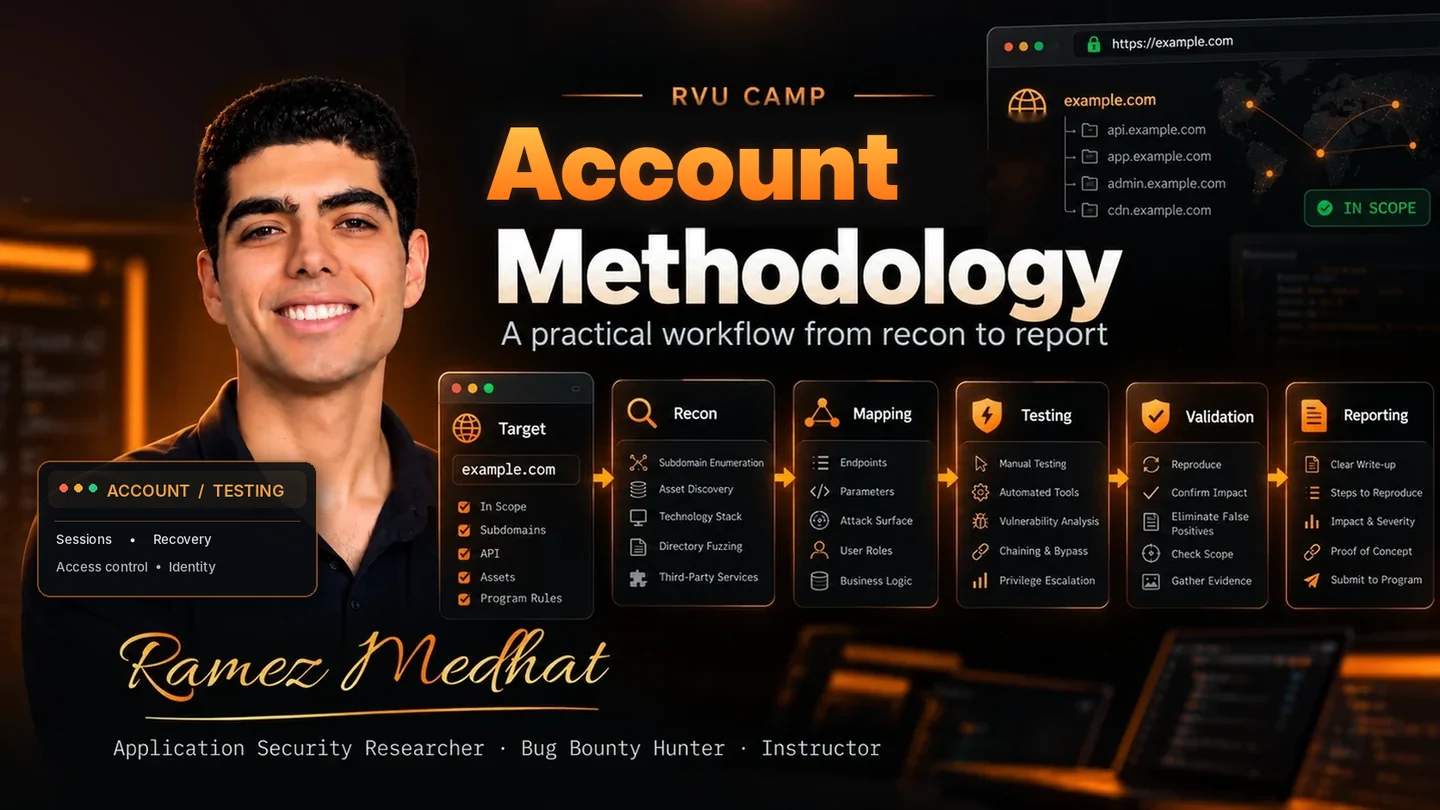
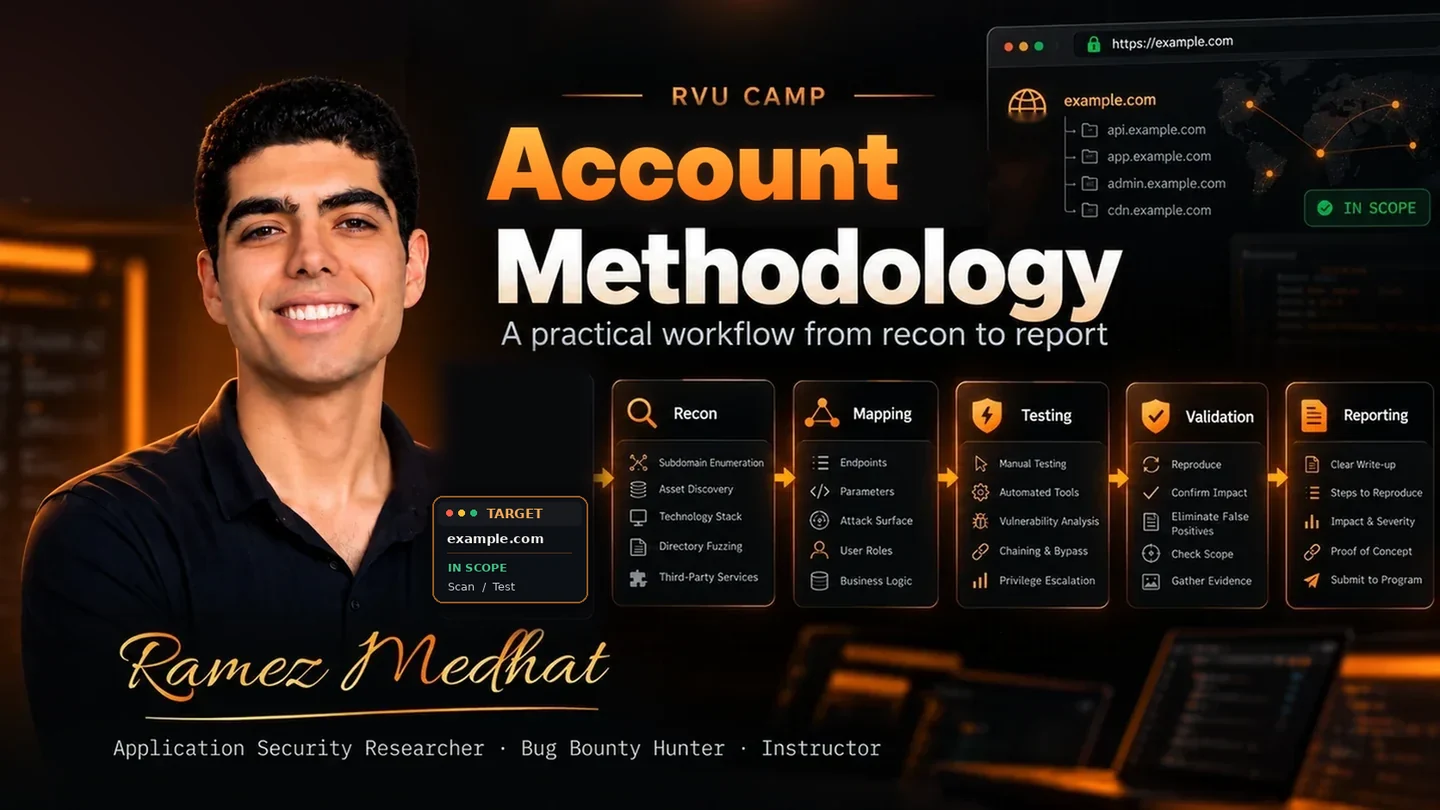
Publish refined Account Testing cover below-shoulder panel

Changed region(s): [[0.2812, 0.4321, 0.4375, 0.8025], [0.0, 0.5556, 0.25, 0.7407]]

diff --git a/index.html b/index.html
@@ -45,7 +45,7 @@
 <section class="section gallery-section" id="experience"><div class="container">
 <div class="section-heading gallery-heading"><div><p class="eyebrow">01 / THE RVU EXPERIENCE</p><h2 data-en="Watch the teaching. Get a feel for the camp.">شوف الشرح وخد إحساس التجربة</h2></div><p data-en="Explore four practical lesson excerpts: APIs, JWTs, e-commerce logic labs and account security testing.">شوف أربع مقتطفات من شرحي في الكامب: الـAPIs والـJWT وتطبيق Business Logic واختبار أمان الحسابات</p></div>
 <div class="gallery-toolbar"><div class="shelf-caption"><span class="gold-dash"></span><span data-en="Four excerpts from my teaching">أربع فيديوهات من شرحي في الكامب</span></div></div>
-<div aria-label="فيديوهات الشرح / Teaching videos" class="gallery-track" id="gallery-track" role="list" tabindex="0"><article class="gallery-card media-card" data-kind="videos" role="listitem"><div class="card-kicker"><span data-en="CAMP EXCERPT">من شرح الكامب</span><span class="mono">01 / VIDEO</span></div><button aria-label="شاهد فيديو How Api Works?" class="video-trigger gallery-poster" data-title="How Api Works?" data-video="xZR5-4iXnI0" type="button" data-label-ar="شاهد How Api Works?" data-label-en="Watch How Api Works?"><img alt="How Api Works? — RVU Camp" draggable="false" height="540" loading="lazy" src="./assets/rvu-video-api.webp?v=20261023-original" width="960" decoding="async"><span aria-hidden="true" class="play-button"><svg viewBox="0 0 24 24" focusable="false"><path d="M9 5.5 19 12 9 18.5Z"></path></svg></span><span class="lesson-tag">APIs / 01</span></button><div class="gallery-card-info"><div><p class="eyebrow" data-en="START WITH UNDERSTANDING">ابدأ بالفهم</p><h3>How API Works?</h3></div><a aria-label="Open How Api Works on YouTube" href="https://www.youtube.com/watch?v=xZR5-4iXnI0" rel="noopener noreferrer" target="_blank">↗</a></div><p data-en="Explore the relationship between the interface, API and data. A sample of my teaching style.">ابدأ بفهم العلاقة بين الواجهة والـAPI والبيانات مقتطف يعرفك على أسلوب شرحي</p></article><article class="gallery-card media-card" data-kind="videos" role="listitem"><div class="card-kicker"><span data-en="CAMP EXCERPT">من شرح الكامب</span><span class="mono">02 / VIDEO</span></div><button aria-label="شاهد فيديو What is JWT?" class="video-trigger gallery-poster" data-title="What is JWT?" data-video="0O1a8Uv2RIs" type="button" data-label-ar="شاهد What is JWT?" data-label-en="Watch What is JWT?"><img alt="What is JWT? — RVU Camp" draggable="false" height="540" loading="lazy" src="./assets/rvu-video-jwt.webp?v=20261023-original" width="960" decoding="async"><span aria-hidden="true" class="play-button"><svg viewBox="0 0 24 24" focusable="false"><path d="M9 5.5 19 12 9 18.5Z"></path></svg></span><span class="lesson-tag">ACCOUNT SECURITY / 02</span></button><div class="gallery-card-info"><div><p class="eyebrow" data-en="CONNECT THE CONCEPTS">اربط المفاهيم ببعض</p><h3>What is JWT?</h3></div><a aria-label="Open What is JWT on YouTube" href="https://www.youtube.com/watch?v=0O1a8Uv2RIs" rel="noopener noreferrer" target="_blank">↗</a></div><p data-en="Connect JWT with account and session context. See the concept explained.">اربط فكرة الـJWT بسياق الحساب والجلسة شوف المفهوم جوه الشرح</p></article><article class="gallery-card media-card" data-kind="videos" role="listitem"><div class="card-kicker"><span data-en="PRACTICAL LAB">تطبيق عملي</span><span class="mono">03 / VIDEO</span></div><button aria-label="شاهد فيديو Find Logic Vulns" class="video-trigger gallery-poster" data-title="Find Logic Vulns" data-video="CZx_WauYbcI" type="button" data-label-ar="شاهد Find Logic Vulns" data-label-en="Watch Find Logic Vulns"><img alt="Find Logic Vulns — Price changes, negative quantities and coupon reuse in RVU Camp" draggable="false" height="540" loading="lazy" src="./assets/rvu-video-account-testing.webp?v=20261023-swapped" width="960" decoding="async"><span aria-hidden="true" class="play-button"><svg viewBox="0 0 24 24" focusable="false"><path d="M9 5.5 19 12 9 18.5Z"></path></svg></span><span class="lesson-tag">BUSINESS LOGIC / 03</span></button><div class="gallery-card-info"><div><p class="eyebrow" data-en="PROBE AND VALIDATE">جرب وتأكد من الأثر</p><h3>Find Logic Vulns</h3></div><a aria-label="Open Find Logic Vulns on YouTube" href="https://www.youtube.com/watch?v=CZx_WauYbcI" rel="noopener noreferrer" target="_blank">↗</a></div><p data-en="Hands-on e-commerce labs: price tampering, negative quantities, coupon reuse and verification of actual impact.">تطبيقات Business Logic في متجر تجريبي: التلاعب بالسعر والكميات السالبة وتكرار الكوبونات وإثبات الأثر الفعلي.</p></article><article class="gallery-card media-card" data-kind="videos" role="listitem"><div class="card-kicker"><span data-en="ACCOUNT SECURITY">أمان الحسابات</span><span class="mono">04 / VIDEO</span></div><button aria-label="شاهد فيديو Account Testing" class="video-trigger gallery-poster" data-title="Account Testing" data-video="FDWt0pSoFTA" type="button" data-label-ar="شاهد Account Testing" data-label-en="Watch Account Testing"><img alt="Account Testing — Sessions, authorization and account recovery methods at RVU Camp" draggable="false" height="540" loading="lazy" src="./assets/rvu-video-account-methodology.webp?v=20261023-account-edit" width="960" decoding="async"><span aria-hidden="true" class="play-button"><svg viewBox="0 0 24 24" focusable="false"><path d="M9 5.5 19 12 9 18.5Z"></path></svg></span><span class="lesson-tag">ACCOUNT TESTING / 04</span></button><div class="gallery-card-info"><div><p class="eyebrow" data-en="MAP THE TRUST BOUNDARIES">اختبر حدود الثقة</p><h3>Account Testing</h3></div><a aria-label="Open Account Testing on YouTube" href="https://www.youtube.com/watch?v=FDWt0pSoFTA" rel="noopener noreferrer" target="_blank">↗</a></div><p data-en="How to think about account security: IDs, session tokens, access control, caching and password reset flows.">إزاي تفكر في اختبار أمان الحسابات: الـID والصلاحيات والجلسات والكاش واسترداد كلمة المرور.</p></article></div>
+<div aria-label="فيديوهات الشرح / Teaching videos" class="gallery-track" id="gallery-track" role="list" tabindex="0"><article class="gallery-card media-card" data-kind="videos" role="listitem"><div class="card-kicker"><span data-en="CAMP EXCERPT">من شرح الكامب</span><span class="mono">01 / VIDEO</span></div><button aria-label="شاهد فيديو How Api Works?" class="video-trigger gallery-poster" data-title="How Api Works?" data-video="xZR5-4iXnI0" type="button" data-label-ar="شاهد How Api Works?" data-label-en="Watch How Api Works?"><img alt="How Api Works? — RVU Camp" draggable="false" height="540" loading="lazy" src="./assets/rvu-video-api.webp?v=20261023-original" width="960" decoding="async"><span aria-hidden="true" class="play-button"><svg viewBox="0 0 24 24" focusable="false"><path d="M9 5.5 19 12 9 18.5Z"></path></svg></span><span class="lesson-tag">APIs / 01</span></button><div class="gallery-card-info"><div><p class="eyebrow" data-en="START WITH UNDERSTANDING">ابدأ بالفهم</p><h3>How API Works?</h3></div><a aria-label="Open How Api Works on YouTube" href="https://www.youtube.com/watch?v=xZR5-4iXnI0" rel="noopener noreferrer" target="_blank">↗</a></div><p data-en="Explore the relationship between the interface, API and data. A sample of my teaching style.">ابدأ بفهم العلاقة بين الواجهة والـAPI والبيانات مقتطف يعرفك على أسلوب شرحي</p></article><article class="gallery-card media-card" data-kind="videos" role="listitem"><div class="card-kicker"><span data-en="CAMP EXCERPT">من شرح الكامب</span><span class="mono">02 / VIDEO</span></div><button aria-label="شاهد فيديو What is JWT?" class="video-trigger gallery-poster" data-title="What is JWT?" data-video="0O1a8Uv2RIs" type="button" data-label-ar="شاهد What is JWT?" data-label-en="Watch What is JWT?"><img alt="What is JWT? — RVU Camp" draggable="false" height="540" loading="lazy" src="./assets/rvu-video-jwt.webp?v=20261023-original" width="960" decoding="async"><span aria-hidden="true" class="play-button"><svg viewBox="0 0 24 24" focusable="false"><path d="M9 5.5 19 12 9 18.5Z"></path></svg></span><span class="lesson-tag">ACCOUNT SECURITY / 02</span></button><div class="gallery-card-info"><div><p class="eyebrow" data-en="CONNECT THE CONCEPTS">اربط المفاهيم ببعض</p><h3>What is JWT?</h3></div><a aria-label="Open What is JWT on YouTube" href="https://www.youtube.com/watch?v=0O1a8Uv2RIs" rel="noopener noreferrer" target="_blank">↗</a></div><p data-en="Connect JWT with account and session context. See the concept explained.">اربط فكرة الـJWT بسياق الحساب والجلسة شوف المفهوم جوه الشرح</p></article><article class="gallery-card media-card" data-kind="videos" role="listitem"><div class="card-kicker"><span data-en="PRACTICAL LAB">تطبيق عملي</span><span class="mono">03 / VIDEO</span></div><button aria-label="شاهد فيديو Find Logic Vulns" class="video-trigger gallery-poster" data-title="Find Logic Vulns" data-video="CZx_WauYbcI" type="button" data-label-ar="شاهد Find Logic Vulns" data-label-en="Watch Find Logic Vulns"><img alt="Find Logic Vulns — Price changes, negative quantities and coupon reuse in RVU Camp" draggable="false" height="540" loading="lazy" src="./assets/rvu-video-account-testing.webp?v=20261023-swapped" width="960" decoding="async"><span aria-hidden="true" class="play-button"><svg viewBox="0 0 24 24" focusable="false"><path d="M9 5.5 19 12 9 18.5Z"></path></svg></span><span class="lesson-tag">BUSINESS LOGIC / 03</span></button><div class="gallery-card-info"><div><p class="eyebrow" data-en="PROBE AND VALIDATE">جرب وتأكد من الأثر</p><h3>Find Logic Vulns</h3></div><a aria-label="Open Find Logic Vulns on YouTube" href="https://www.youtube.com/watch?v=CZx_WauYbcI" rel="noopener noreferrer" target="_blank">↗</a></div><p data-en="Hands-on e-commerce labs: price tampering, negative quantities, coupon reuse and verification of actual impact.">تطبيقات Business Logic في متجر تجريبي: التلاعب بالسعر والكميات السالبة وتكرار الكوبونات وإثبات الأثر الفعلي.</p></article><article class="gallery-card media-card" data-kind="videos" role="listitem"><div class="card-kicker"><span data-en="ACCOUNT SECURITY">أمان الحسابات</span><span class="mono">04 / VIDEO</span></div><button aria-label="شاهد فيديو Account Testing" class="video-trigger gallery-poster" data-title="Account Testing" data-video="FDWt0pSoFTA" type="button" data-label-ar="شاهد Account Testing" data-label-en="Watch Account Testing"><img alt="Account Testing — Sessions, authorization and account recovery methods at RVU Camp" draggable="false" height="540" loading="lazy" src="./assets/rvu-video-account-methodology.webp?v=20261023-account-clean" width="960" decoding="async"><span aria-hidden="true" class="play-button"><svg viewBox="0 0 24 24" focusable="false"><path d="M9 5.5 19 12 9 18.5Z"></path></svg></span><span class="lesson-tag">ACCOUNT TESTING / 04</span></button><div class="gallery-card-info"><div><p class="eyebrow" data-en="MAP THE TRUST BOUNDARIES">اختبر حدود الثقة</p><h3>Account Testing</h3></div><a aria-label="Open Account Testing on YouTube" href="https://www.youtube.com/watch?v=FDWt0pSoFTA" rel="noopener noreferrer" target="_blank">↗</a></div><p data-en="How to think about account security: IDs, session tokens, access control, caching and password reset flows.">إزاي تفكر في اختبار أمان الحسابات: الـID والصلاحيات والجلسات والكاش واسترداد كلمة المرور.</p></article></div>
 <div class="gallery-footer"><div class="gallery-arrows"><button aria-controls="gallery-track" aria-label="الفيديو السابق" class="arrow-prev" id="gallery-prev" type="button" data-label-ar="الفيديو السابق" data-label-en="Previous video"><svg aria-hidden="true" focusable="false" viewBox="0 0 24 24"><path d="M5 12h14m-6-6 6 6-6 6"></path></svg></button><button aria-controls="gallery-track" aria-label="الفيديو التالي" class="arrow-next" id="gallery-next" type="button" data-label-ar="الفيديو التالي" data-label-en="Next video"><svg aria-hidden="true" focusable="false" viewBox="0 0 24 24"><path d="M5 12h14m-6-6 6 6-6 6"></path></svg></button></div></div><!-- RVU STUDENT REVIEWS DISABLED: Waiting for genuine student testimonials.
      Replace the three illustrative examples with verified reviews before uncommenting this block.
 <div class="student-voices" id="voices"><div class="voices-heading"><div><p class="eyebrow">STUDENT VOICES</p><h3 data-en="A space for student experiences.">مساحة لتجارب الطلاب</h3></div></div><p class="gallery-context" data-en="These three cards are illustrative design samples, not actual student testimonials.">الآراء الثلاثة نماذج توضيحية للتصميم وليست شهادات طلاب حقيقية</p><div class="reviews-grid"><details class="review-tile"><summary><span aria-hidden="true" class="review-avatar">01</span><span class="review-person"><strong data-en="Sample voice 01">نموذج رأي ٠١</strong><small data-en="Understanding &amp; methodology">الفهم والـMethodology</small></span><span aria-hidden="true" class="ui-toggle"></span></summary><div class="review-body"><span class="demo-label" data-en="ILLUSTRATIVE · NOT A REAL REVIEW">نموذج توضيحي · رأي غير حقيقي</span><blockquote data-en="I used to jump between tools. The difference was learning to ask: what am I testing, and why?">كنت بتنقل بين Tools كتير الفرق بالنسبة لي إني بقيت أسأل أنا باختبر إيه وليه؟</blockquote></div></details><details class="review-tile"><summary><span aria-hidden="true" class="review-avatar">02</span><span class="review-person"><strong data-en="Sample voice 02">نموذج رأي ٠٢</strong><small data-en="Personal follow-up">المتابعة الشخصية</small></span><span aria-hidden="true" class="ui-toggle"></span></summary><div class="review-body"><span class="demo-label" data-en="ILLUSTRATIVE · NOT A REAL REVIEW">نموذج توضيحي · رأي غير حقيقي</span><blockquote data-en="The useful part was reviewing my attempt together, and understanding where my reasoning needed to change.">أكتر حاجة فرقت معايا إننا بنراجع محاولتي سوا وبفهم أنا كنت محتاج أغير إيه في طريقة تفكيري</blockquote></div></details><details class="review-tile"><summary><span aria-hidden="true" class="review-avatar">03</span><span class="review-person"><strong data-en="Sample voice 03">نموذج رأي ٠٣</strong><small data-en="Practical training">التدريب العملي</small></span><span aria-hidden="true" class="ui-toggle"></span></summary><div class="review-body"><span class="demo-label" data-en="ILLUSTRATIVE · NOT A REAL REVIEW">نموذج توضيحي · رأي غير حقيقي</span><blockquote data-en="Working through a connected application helped the requests and business logic make sense together.">التطبيق على موقع مترابط خلاني أربط الـRequests بالـBusiness Logic وأفهم أنا بغير إيه وتأثيره إيه</blockquote></div></details></div></div>
